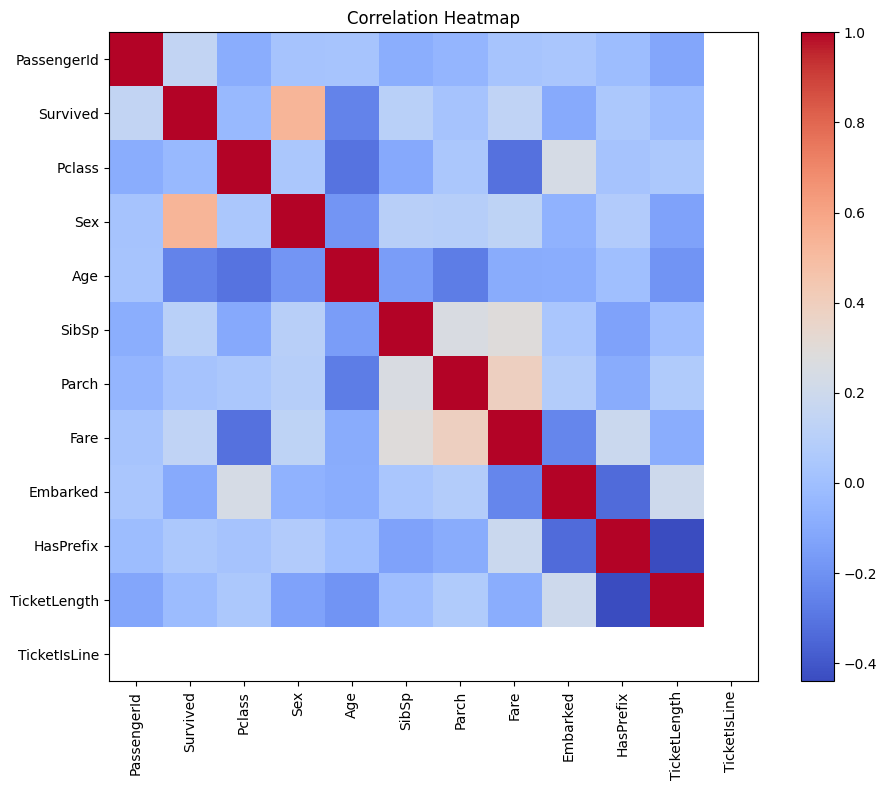
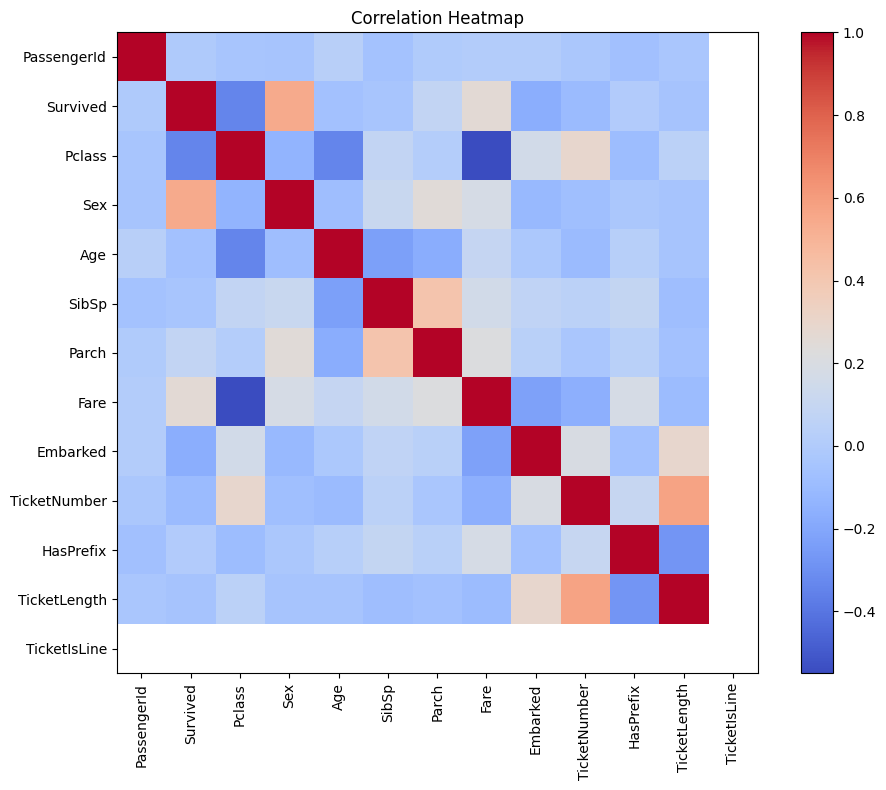
Improve the model

diff --git a/data_visualization.py b/data_visualization.py
@@ -6,9 +6,14 @@ import os
 print(os.getcwd())
 
 df = pd.read_csv('data/train.csv')
-df.dropna(inplace=True)
 print("\nTraining Data Info:")
 print(df.info())
+print(df.isna().sum())
+
+df['Age'] = df['Age'].fillna(df['Age'].median())
+df['Embarked'] = df['Embarked'].fillna('S')
+df.drop(columns=['Cabin'], inplace=True)
+print(f"Original df: {len(df)}")
 
 name_list = df['Name'].tolist()
 unique_names = len(np.unique(df['Name'].tolist()))
@@ -21,7 +26,7 @@ unique_embarked = len(np.unique(df['Embarked'].tolist()))
 print(f"Unique Embarked: {unique_embarked}")
 
 split_value = df['Ticket'].str.split(' ')
-df['TicketNumber'] = split_value.str[-1]
+df['TicketNumber'] = pd.to_numeric(split_value.str[-1], errors='coerce')
 df['TicketPrefix'] = split_value.str[:-1].apply(lambda x: ' '.join(x) if len(x) > 0 else '')
 print("\nTicket Number and Prefix Info:")
 print(df[['Ticket', 'TicketNumber', 'TicketPrefix']].head())
@@ -29,7 +34,7 @@ print(df[['Ticket', 'TicketNumber', 'TicketPrefix']].head())
 
 res = {}
 for i in range(len(df['TicketPrefix'])):
-    print(f"{i}: {df.iloc[i]['TicketPrefix']}")
+    # print(f"{i}: {df.iloc[i]['TicketPrefix']}")
     res[df.iloc[i]['TicketPrefix']] = res.get(df.iloc[i]['TicketPrefix'], 0) + 1
 print(res)
 
@@ -39,6 +44,16 @@ df["Embarked"] = df["Embarked"].map({"C": 0, "Q": 1, "S": 2})
 df['HasPrefix'] = df['TicketPrefix'].apply(lambda x: 0 if x == '' else 1)
 df['TicketLength'] = df['TicketNumber'].astype(str).apply(len)
 df['TicketIsLine'] = df['TicketNumber'].apply(lambda x: 1 if str(x).upper() == 'LINE' else 0)
+
+# Boxplot about fare
+plt.figure()
+plt.boxplot(df['Fare'], vert=True)
+plt.title('Fare distribution')
+plt.ylabel('Fare')
+
+Path('figures').mkdir(exist_ok=True)
+plt.savefig('figures/fare_boxplot.png', bbox_inches='tight')
+plt.close()
 
 df.to_csv('data/train_preprocessed.csv', index=False)
 
